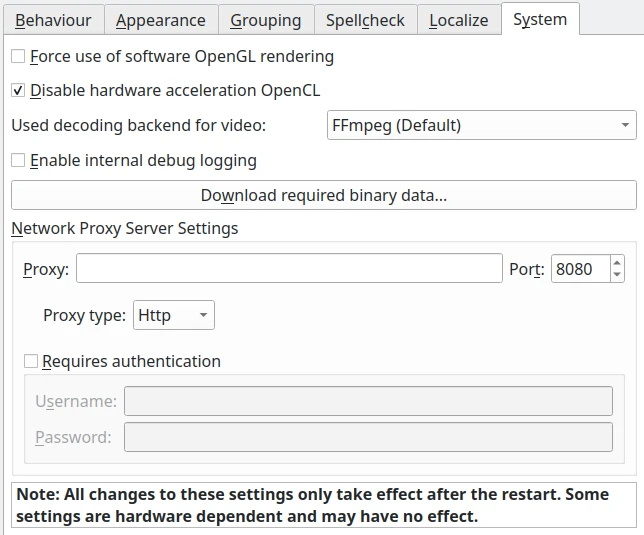
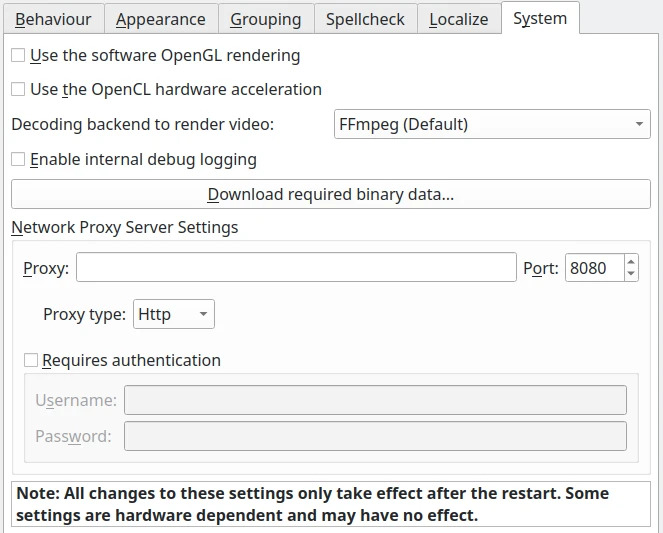
update all options descriptions in Setup Miscs System configuration view

diff --git a/setup_application/miscs_settings.rst b/setup_application/miscs_settings.rst
@@ -271,11 +271,22 @@ This section allows to tune special low level configurations used by application
 
     The digiKam System Configuration Page
 
-- **Use high DPI scaling from the screen factor**: with this option application will scale coordinates in device independent manner according to display scale factors provided by the operating system. It scales the graphical interface elements (buttons, text, etc.) with the Desktop settings. The digiKam graphical interface elements are therefore displayed larger by this factor and are therefore theoretically just as large as the graphical interface elements of the system.
+- **Use high DPI scaling from the screen factor**: this option application will scale coordinates in device independent manner according to display scale factors provided by the operating system. It scales the graphical interface elements (buttons, text, etc.) with the Desktop settings. The digiKam graphical interface elements are therefore displayed larger by this factor and are therefore theoretically just as large as the graphical interface elements of the system. This option is only available with the Qt5 version of application.
 
-- **Use pixmaps with high DPI resolution**: with this option, pixmaps sizes used internally by application will have a device-independent layout geometry. It activates high-resolution icons, otherwise the elements in digiKam would look very blurry under high resolutions. Also, it's recommended to use this option in multi-screen context when resolutions are not the same.
+- **Use pixmaps with high DPI resolution**: this option, pixmaps sizes used internally by application will have a device-independent layout geometry. It activates high-resolution icons, otherwise the elements in digiKam would look very blurry under high resolutions. Also, it's recommended to use this option in multi-screen context when resolutions are not the same. This option is only available with the Qt5 version of application.
 
-- **Disable hardware acceleration OpenCL**: this option will disable GPU accelerations, especially with faces management and image quality sorting. This option affect the `OpenCV <https://opencv.org/>`_ engine used in background for the intensive computation on images. To see the OpenCV configuration, go to :menuselection:`Help --> Components Information` menu entry, and :ref:`OpenCV section from the dialog <help_componentsinfo>`.
+- **Use the software OpenGL rendering**: this option will disable the GPU hardware accelerations and switch to a software-emulation for all OpenGL usages.
+
+- **Use the OpenCL hardware acceleration**: this option will enable the GPU accelerations with the faces management, image quality sorting, and auto-tags features. This option affect the `OpenCV <https://opencv.org/>`_ engine used in background for the intensive computation on images. To see all details about the OpenCV hardware support, go to :menuselection:`Help --> Components Information` menu entry, and :ref:`OpenCV section from the dialog <help_componentsinfo>`.
+
+- **Fix AMD-GPU video decoding issue**: this option is only available under Windows and must be used only with AMD hardware GPU devices to decode video media.
+
+- **Decoding backend to render video**: this option allows to choice the backend used to render video media with the Qt6 version of application. Supported backends are:
+
+    - **FFmpeg**: the default backend available on all plateforms.
+    - **GStreamer**: the alternative backend available under Linux.
+    - **WMF**: Windows Management Framework is the alternative backend available under Windows.
+    - **AVFoundation**: the alternative backend available under macOS.
 
 - **Enable internal debug logging**: this option will turn on the debug traces on the console used to investigate dysfunctions. Under Linux and macOS, just start the application from a console to show the messages. Under Windows, you needs an extra Microsoft application named `DebugView <https://learn.microsoft.com/sysinternals/downloads/debugview>`_ to display the messages. The default settings from DebugView is enough to capture the traces from the application.
 
@@ -285,4 +296,6 @@ This section allows to tune special low level configurations used by application
 
     digiKam Running Under Windows With DebugView
 
-- **Download Face Engine Data**: With this button you can load face engine deep-learning model files if you pass this stage at first-run.
+- **Download Face Engine Data**: with this button you can load the deep-learning model files used with the faces management, image quality sorting, and auto-tags features. Only uses it only if you by-pass this stage at application first-run.
+
+- **Network Proxy Server Settings**: these option group the `proxy server <https://en.wikipedia.org/wiki/Proxy_server>`_ settings for your local intranet. Leave empty if there is no proxy.
